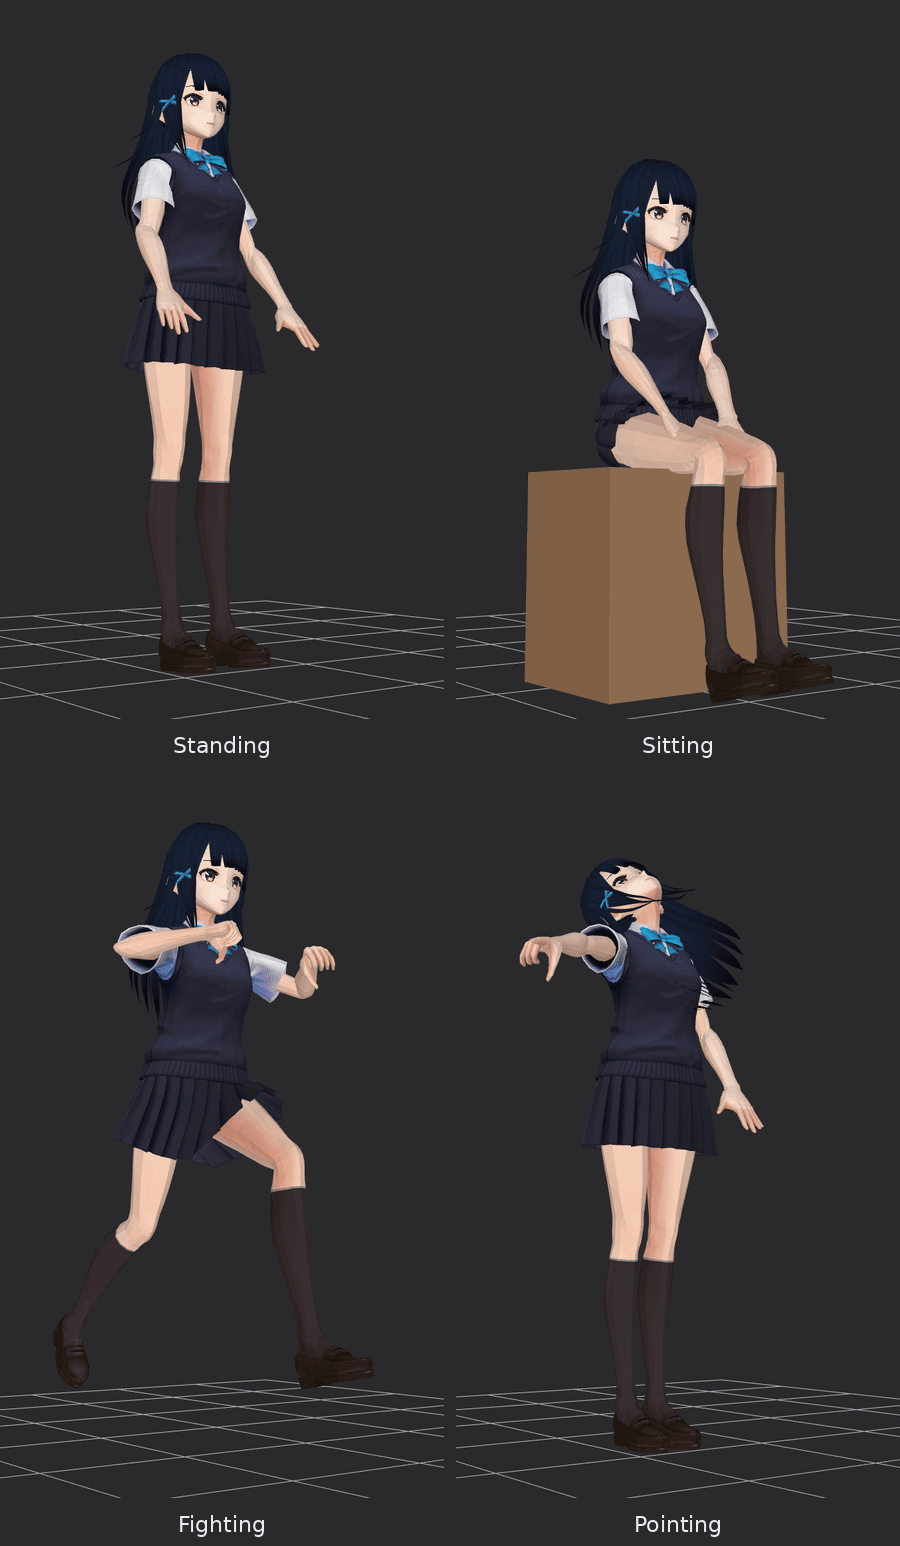
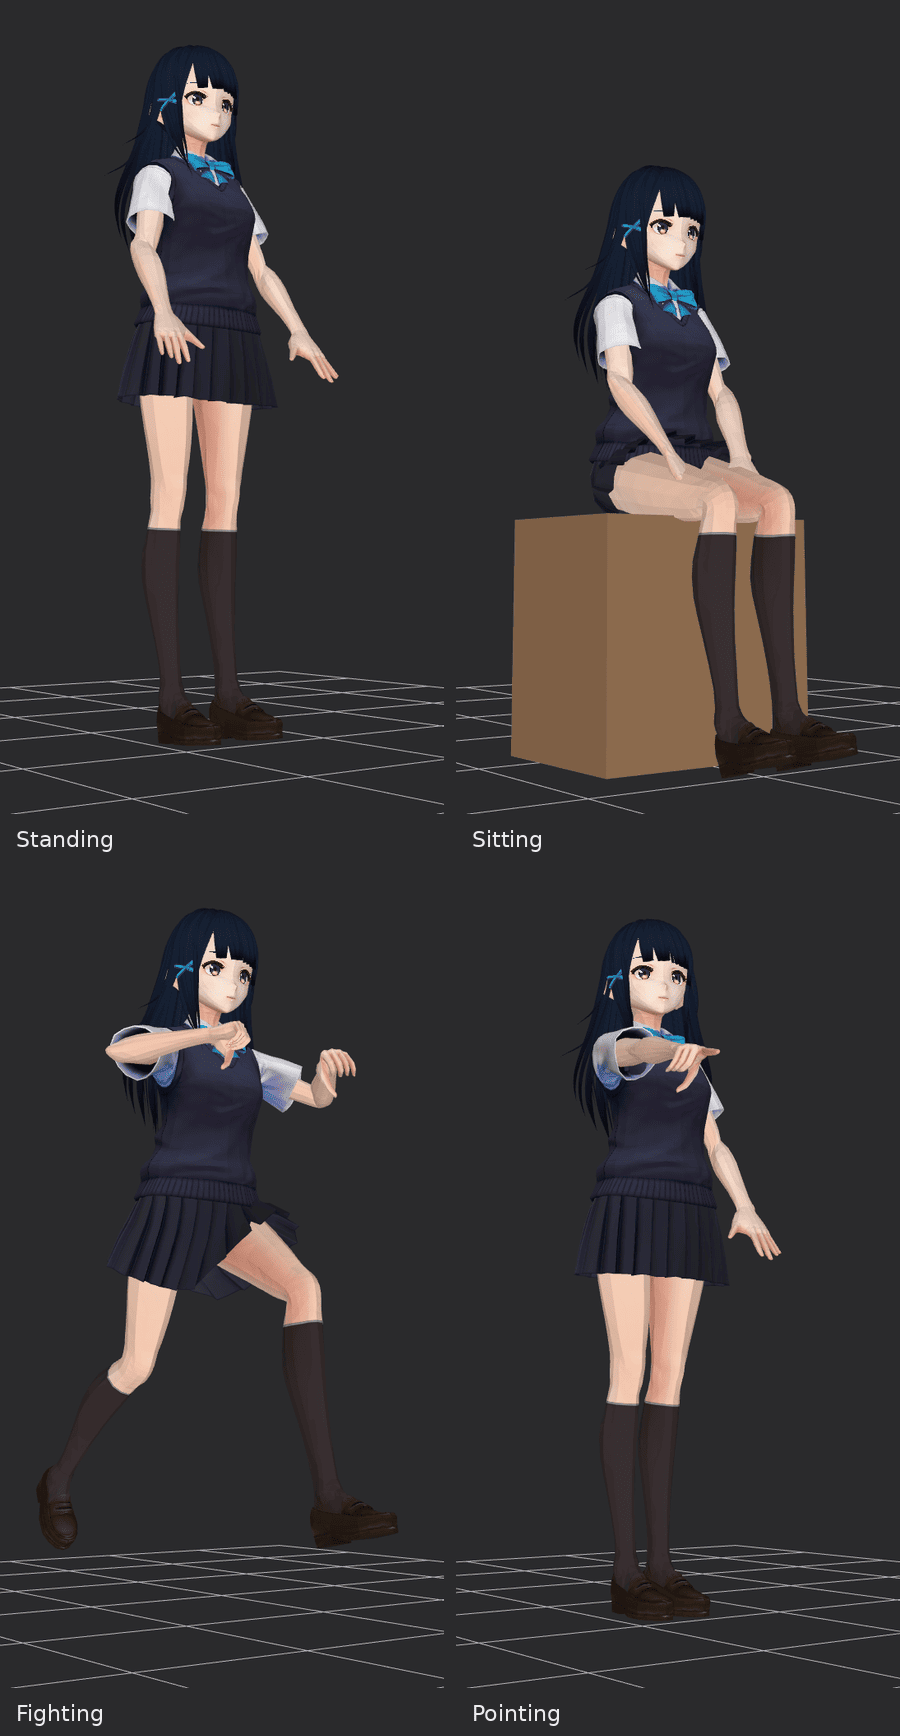
Keep the pointing head level and the arm forward.
The pointing preset was aiming the head's eye bone straight up, which tipped the face back and swung the hair across it. Yaw the head toward the point instead, and aim the straight right arm forward at shoulder height.

diff --git a/ui/view3d.js b/ui/view3d.js
@@ -2521,6 +2521,13 @@ function mix(axes, parts) {
   return norm(acc);
 }
 
+function pointLook(axes) {
+  // A level forward arm lifts above the head in three-quarter, because the hand
+  // comes toward the camera. A little down keeps the hand at shoulder height there,
+  // and a little to the character's right keeps it off the cheek.
+  return mix(axes, [["forward", 0.92], ["right", 0.22], ["up", -0.34]]);
+}
+
 function presetTargets(name) {
   const down = (axes) => mix(axes, [["up", -1]]);
   const table = {
@@ -2566,14 +2573,12 @@ function presetTargets(name) {
       rightLowerArm: (axes) => mix(axes, [["up", -0.78], ["forward", 0.55], ["right", -0.22]]),
     },
     point: {
-      // A level forward arm rises into the forehead in three-quarter, because the hand
-      // comes toward the camera. Aim slightly down and out so the hand stays at shoulder
-      // height beside the face, and keep the forearm on the same line so the elbow stays straight.
-      rightUpperArm: (axes) => mix(axes, [["forward", 0.55], ["right", 0.78], ["up", -0.32]]),
-      rightLowerArm: (axes) => mix(axes, [["forward", 0.55], ["right", 0.78], ["up", -0.32]]),
+      // Both arm bones share one aim so the elbow stays straight. pointLook aims the arm
+      // forward at shoulder height. The head is yawed afterwards by aimHeadLevel.
+      rightUpperArm: (axes) => pointLook(axes),
+      rightLowerArm: (axes) => pointLook(axes),
       leftUpperArm: (axes) => mix(axes, [["up", -0.9], ["right", -0.3], ["forward", 0.12]]),
       leftLowerArm: (axes) => mix(axes, [["up", -0.75], ["forward", 0.45]]),
-      head: (axes) => mix(axes, [["up", 1]]),
     },
     cross: {
       leftUpperArm: (axes) => mix(axes, [["right", 0.72], ["forward", 0.55], ["up", -0.2]]),
@@ -2608,8 +2613,32 @@ function buildPreset(geom, name) {
   }
   clampHinges(geom, pose);
   if (name === "fight") curlFingers(geom, pose, bindWorlds);
-  if (name === "point") pointIndex(geom, pose, bindWorlds);
+  if (name === "point") {
+    pointIndex(geom, pose, bindWorlds);
+    aimHeadLevel(geom, pose, bindWorlds, pointLook(axes));
+  }
   return pose;
+}
+
+// Yaw only. Aiming the head bone at world up pitches the face back, and hair that
+// sits behind the skull swings across it. Keep the bind "up" on the body up axis
+// and turn the bind face toward the horizontal part of the point.
+function aimHeadLevel(geom, pose, bindWorlds, look) {
+  if (geom.humanoid.head == null) return;
+  const axes = modelAxes(geom, bindWorlds);
+  const flat = projectPerp(look, axes.up);
+  if (Math.hypot(flat[0], flat[1], flat[2]) < 1e-4) return;
+  const faceTarget = norm(flat);
+  const node = geom.humanoid.head;
+  const bindRot = quatFromMatrix(bindWorlds[node]);
+  const localFace = rotateVec(invQuat(bindRot), axes.forward);
+  const localUp = rotateVec(invQuat(bindRot), axes.up);
+  const worlds = boneWorlds(geom, pose);
+  const parent = geom.rig.parent[node];
+  const parentRot = parent != null && parent >= 0 ? quatFromMatrix(worlds[parent]) : [0, 0, 0, 1];
+  const worldRot = mulQuat(parentRot, geom.rig.nodes[node].r);
+  const aimed = applyTwist(mulQuat(quatFromTo(rotateVec(worldRot, localFace), faceTarget), worldRot), localFace, localUp, axes.up);
+  pose.head = normalizeQuat(mulQuat(invQuat(parentRot), aimed));
 }
 
 function aimBone(geom, pose, bindWorlds, bone, target, lockTwist) {

diff --git a/tests/test_core.py b/tests/test_core.py
@@ -1967,6 +1967,12 @@ for (const rightX of [0.2, -0.2]) {
   const pointUpper = limb(pointWorlds, "rightUpperArm", "rightLowerArm");
   const pointLower = limb(pointWorlds, "rightLowerArm", "rightHand");
   const pointElbow = Math.acos(Math.max(-1, Math.min(1, dot(pointUpper, pointLower)))) * 180 / Math.PI;
+  const bindHead = quatFromMatrix(bindWorlds[geom.humanoid.head]);
+  const posedHead = quatFromMatrix(pointWorlds[geom.humanoid.head]);
+  const localFace = rotateVec(invQuat(bindHead), axes.forward);
+  const localHeadUp = rotateVec(invQuat(bindHead), axes.up);
+  const pointFace = rotateVec(posedHead, localFace);
+  const pointHeadUpVec = rotateVec(posedHead, localHeadUp);
   const bindFinger = limb(bindWorlds, "leftMiddleProximal", "leftMiddleIntermediate");
   const fistFinger = limb(fightWorlds, "leftMiddleProximal", "leftMiddleIntermediate");
   const palm = palmNormal(geom, bindWorlds, "left");
@@ -2012,6 +2018,9 @@ for (const rightX of [0.2, -0.2]) {
     pointLowerForward: dot(pointLower, axes.forward),
     pointLowerRight: dot(pointLower, axes.right),
     pointElbow,
+    pointHeadUp: dot(pointHeadUpVec, axes.up),
+    pointFaceForward: dot(pointFace, axes.forward),
+    pointFaceRight: dot(pointFace, axes.right),
     fingerBind,
     fingerFist,
     hyperBefore: dot(before, axes.forward),
@@ -2039,11 +2048,15 @@ process.stdout.write(JSON.stringify(report));
             self.assertLess(item["fightLowerUp"], 0.35)
             self.assertGreater(item["fightLowerForward"], 0.5)
             self.assertGreater(item["fightElbow"], 70)
-            self.assertLess(abs(item["pointUpperUp"]), 0.45)
-            self.assertLess(abs(item["pointLowerUp"]), 0.45)
-            self.assertGreater(item["pointLowerForward"], 0.4)
-            self.assertGreater(item["pointLowerRight"], 0.5)
+            self.assertLess(abs(item["pointUpperUp"]), 0.35)
+            self.assertLess(abs(item["pointLowerUp"]), 0.35)
+            self.assertGreater(item["pointLowerForward"], 0.75)
+            self.assertGreater(item["pointLowerRight"], 0.2)
+            self.assertLess(item["pointLowerRight"], 0.55)
             self.assertLess(item["pointElbow"], 20)
+            self.assertGreater(item["pointHeadUp"], 0.9)
+            self.assertGreater(item["pointFaceForward"], 0.75)
+            self.assertGreater(item["pointFaceRight"], 0.2)
             self.assertGreater(item["fingerFist"], item["fingerBind"] + 0.35)
             self.assertGreater(item["fightLead"], 0.5)
             self.assertLess(item["fightBack"], 0)

diff --git a/README.md b/README.md
@@ -116,7 +116,7 @@ Rest, Joy, and Surprised, still head and shoulders. Joy narrows the eyes and lif
 
 Pose mode bends a rigged GLB or VRM. Pick a bone in the list, grouped by body part, or click it on the model, then drag the red, green, and blue handles or move the X, Y, and Z sliders. Show bones turns those markers and handles off when you want a clean view. It starts on. T / A pose puts back the bind pose stored in the file, which is a T-pose or an A-pose depending on how the model was rigged. Standing, walking, running, sitting, pointing, arms crossed, and fighting stance aim the limbs. VRM files use the humanoid bone map. A rig without that map is matched from bone names such as `LeftUpperArm` or `mixamorig:LeftArm`. Save pose stores the bone rotations and the current expression in the library under that character. Load puts them back. Nothing about posing is uploaded.
 
-Four poses on Sendagaya Shino, from a three-quarter front, with the floor and lighting on. Standing hangs the arms. Sitting puts her on a box, knees folded forward, hands in the lap, feet at the floor. Fighting holds both fists in front of the chest, elbows bent, one foot forward, face clear. Pointing holds the right arm out at shoulder height with a straight elbow, the hand clear of the face, and the other arm down.
+Four poses on Sendagaya Shino, from a three-quarter front, with the floor and lighting on. Standing hangs the arms. Sitting puts her on a box, knees folded forward, hands in the lap, feet at the floor. Fighting holds both fists in front of the chest, elbows bent, one foot forward, face clear. Pointing holds the right arm forward at shoulder height with a straight elbow, the head level, the hand clear of the face, and the other arm down.
 
 <p align="center">
   <img src="docs/3d-pose-grid.png" width="900" alt="Two by two grid of Sendagaya Shino standing, sitting on a box, fighting, and pointing, each pose labeled">
